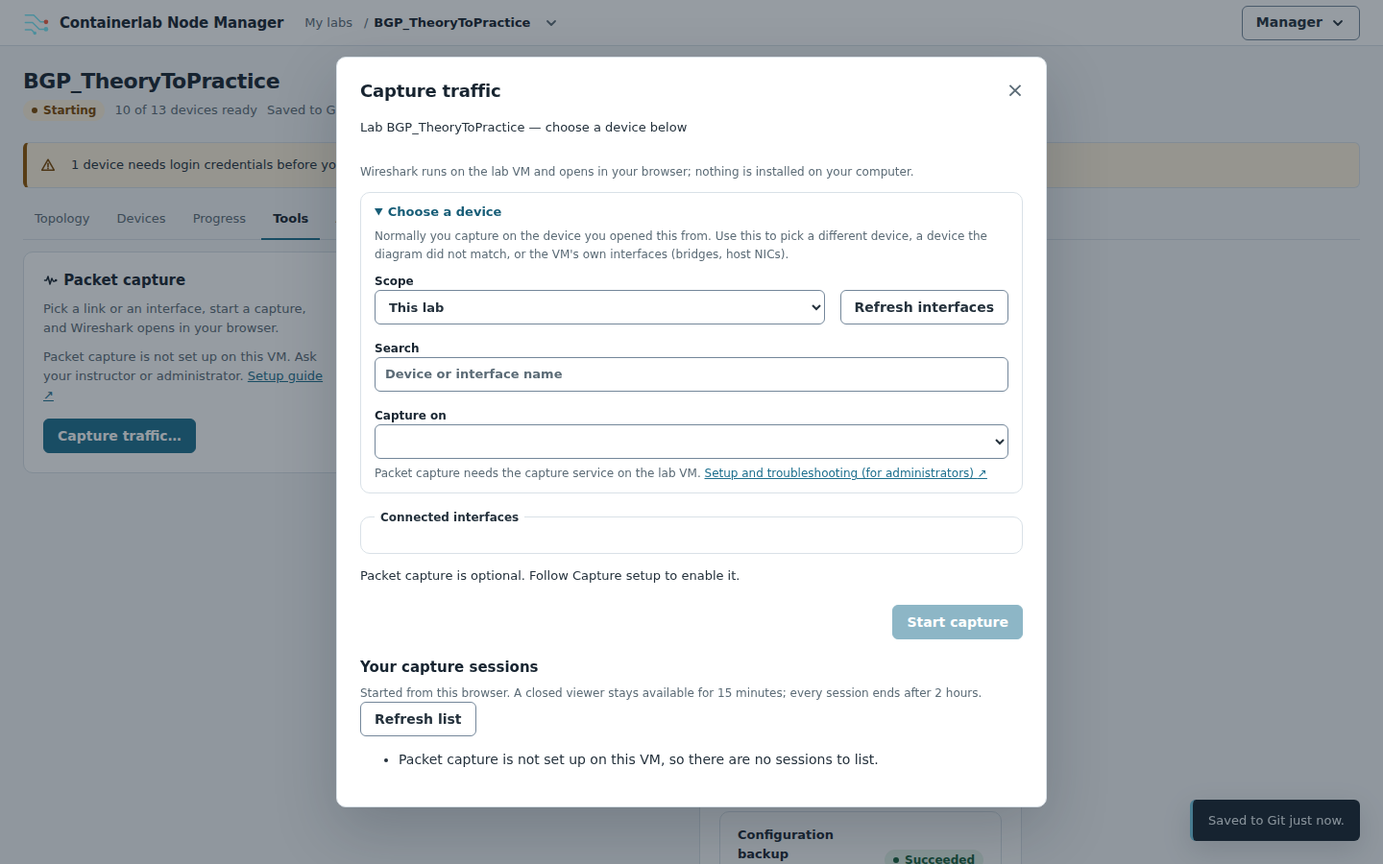
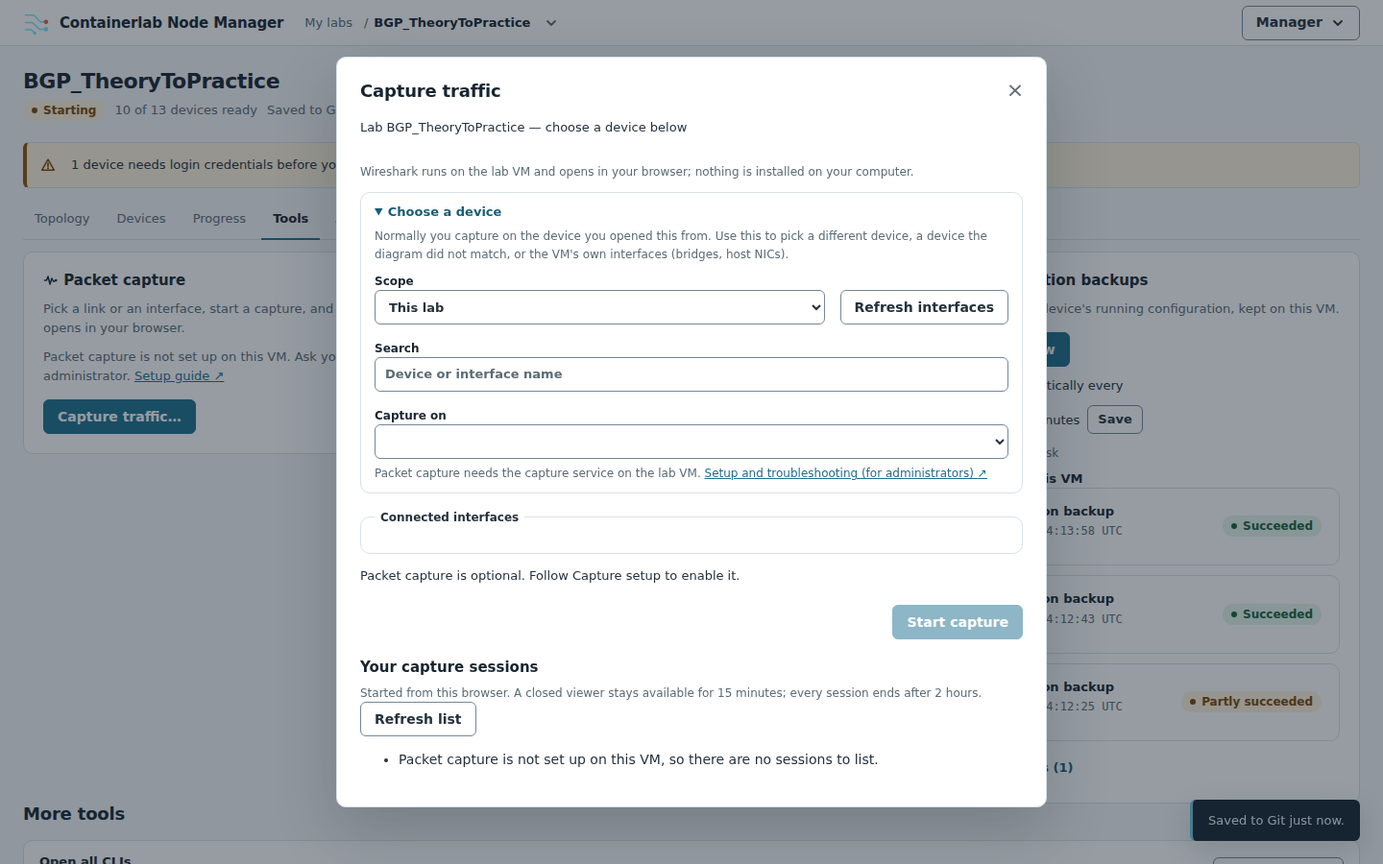
Release 1.29.1: student UI screenshot pass, eight layout fixes
Screenshot sweep of every student page on the live dev VM at 1440x900, 1280x720,
1920x1080 and 800 px; fixes in style.css, app.js, operations.js and git-progress.js:
the topology rail badge overlapping the state pill, the expanded map filling only a
corner of its overlay, the map More menu drawn as toolbar buttons, the Tools cards
(empty fourth column, schedule form and backup summary wrapping), the capture dialog's
empty-state sentence, the Open all CLIs arrow, the Progress error card, and the
Advanced key/value spacing. Tour images regenerated from the fixture manager; release
markers moved with set-release.py; CHANGELOG, VALIDATION and agent-instructions
sections added.

diff --git a/clab-backup-ui/app/static/style.css b/clab-backup-ui/app/static/style.css
@@ -937,6 +937,7 @@ footer {
 }
 .blank-state h2 { font-size: 18px; margin-bottom: 6px; }
 .blank-state p { font-size: 13px; margin: 0; }
+.blank-state .actions { justify-content: center; padding: 14px 0 0; }
 
 /* legacy landing panel (section#empty) */
 .empty-panel { position: relative; overflow: hidden; padding: 56px 24px; }
@@ -1127,7 +1128,7 @@ footer {
 .card > p:first-of-type, .panel > p:first-of-type { margin-top: 0; }
 .card .caption, .panel .caption { margin-top: 4px; }
 
-.tool-grid { display: grid; grid-template-columns: repeat(auto-fill, minmax(320px, 1fr)); gap: 16px; align-items: start; }
+.tool-grid { display: grid; grid-template-columns: repeat(auto-fit, minmax(400px, 1fr)); gap: 16px; align-items: start; }
 .tool-card {
   display: flex;
   flex-direction: column;
@@ -1185,6 +1186,7 @@ dl.kv, .kv {
 .kv dt { color: var(--muted); }
 .kv dd { margin: 0; overflow-wrap: anywhere; }
 .kv .mono, .kv code { font-size: 12px; }
+.panel > .kv { margin-top: 12px; }
 
 .health-grid {
   display: grid;
@@ -1268,7 +1270,8 @@ fieldset { min-width: 0; }
 
 .schedule-form { display: flex; flex-wrap: wrap; align-items: center; gap: 8px; font-size: 13px; }
 .schedule-form input { width: 80px; }
-.schedule-form small { font-size: 12px; color: var(--muted); }
+.schedule-form label { flex-basis: 100%; }
+.schedule-form small { flex-basis: 100%; font-size: 12px; color: var(--muted); }
 
 .log-filters { display: flex; gap: 12px; flex-wrap: wrap; align-items: end; margin: 12px 0; }
 .log-filters label { display: grid; gap: 6px; font-size: 12px; font-weight: 600; color: var(--ink); }
@@ -1356,9 +1359,15 @@ tr:last-child td { border-bottom: 0; }
 
 .device-rail { display: flex; flex-direction: column; gap: 6px; min-width: 0; }
 .device-rail h2, .device-rail h3, .device-rail .card-title { font-size: 13px; color: var(--muted); font-weight: 600; margin: 0 0 4px; }
-.device-rail .device-row { grid-template-columns: minmax(96px, 1fr) minmax(0, 1.4fr); padding: 10px 12px; gap: 8px 12px; }
-.device-rail .device-row .node-name { overflow-wrap: anywhere; word-break: normal; }
-.device-rail .device-row .node-actions { grid-column: 1 / -1; justify-content: flex-start; min-width: 0; }
+/* rail cards are narrow: the name and the state pill share the first line and the network OS badge gets a
+   line of its own, so a long platform label (Junos (vJunos-switch)) never runs under the pill */
+.device-rail .device-row { grid-template-columns: minmax(0, 1fr) auto; grid-template-areas: "name state" "platform platform" "reason reason" "actions actions"; padding: 10px 12px; gap: 0 10px; }
+.device-rail .device-row > div:not(.node-actions) { display: contents; }
+.device-rail .device-row .node-name { grid-area: name; justify-self: start; overflow-wrap: anywhere; word-break: normal; }
+.device-rail .device-row .pill { grid-area: state; justify-self: end; margin: 0; }
+.device-rail .device-row .platform { grid-area: platform; justify-self: start; margin: 4px 0 0; max-width: 100%; white-space: normal; overflow-wrap: anywhere; }
+.device-rail .device-row .row-reason { grid-area: reason; margin: 4px 0 0; }
+.device-rail .device-row .node-actions { grid-area: actions; justify-content: flex-start; min-width: 0; margin-top: 10px; }
 .device-rail .empty-state { padding: 24px 16px; }
 .device-rail .caption { margin-top: 8px; }
 
@@ -1408,6 +1417,8 @@ tr:last-child td { border-bottom: 0; }
 .job-title { flex: 1; min-width: 0; }
 .job-title strong { font-size: 13px; display: block; color: var(--ink); }
 .job-title small { display: block; font: 12px var(--mono); color: var(--muted); margin-top: 4px; }
+/* the date and the device count never break inside; a narrow card wraps at the separator */
+.job-title small > span { white-space: nowrap; }
 .job-body { border-top: 1px solid var(--line); padding: 16px 18px; }
 .job-body > p { font-size: 13px; color: var(--muted); margin: 0 0 12px; }
 .job-result {
@@ -1650,7 +1661,7 @@ dialog.drawer, dialog.node-details {
 
 .map-tools { display: flex; align-items: center; gap: 6px; flex-wrap: wrap; }
 .map-tools span { font-size: 12px; color: var(--muted); }
-.map-tools button, .map-tools .button, .map-tools .menu > summary {
+.map-tools button:not(.menu-list *), .map-tools .button:not(.menu-list *), .map-tools .menu > summary {
   min-height: 30px;
   padding: 4px 10px;
   border: 1px solid var(--line-strong);
@@ -1662,7 +1673,7 @@ dialog.drawer, dialog.node-details {
   white-space: nowrap;
   box-shadow: 0 1px 2px rgba(23, 36, 48, .06);
 }
-.map-tools button:hover:not(:disabled), .map-tools .button:hover:not(:disabled), .map-tools .menu > summary:hover { background: var(--surface-2); }
+.map-tools button:not(.menu-list *):hover:not(:disabled), .map-tools .button:not(.menu-list *):hover:not(:disabled), .map-tools .menu > summary:hover { background: var(--surface-2); }
 .map-tools .button.primary { background: var(--accent); border-color: var(--accent); color: #fff; }
 .map-tools .button.primary:hover:not(:disabled) { background: var(--accent-strong); }
 .map-tools #map-edit { margin-left: auto; }
@@ -1740,9 +1751,11 @@ path.capture-hit { stroke: transparent; stroke-width: 16; pointer-events: stroke
   box-shadow: 0 0 0 100vmax var(--backdrop), var(--shadow-dialog);
   overflow: hidden;
 }
-.map-expanded .topology-layout, .map-expanded .topology-body { display: flex; flex-direction: column; flex: 1; min-height: 0; }
+/* the layout grid and its map column become flex columns; align-items must stretch (the grid rule says
+   start) or the stage shrinks to the width of its toolbar */
+.map-expanded .topology-layout, .map-expanded .topology-layout > div:first-child { display: flex; flex-direction: column; flex: 1; min-height: 0; min-width: 0; align-items: stretch; }
 .map-expanded .topology-stage { flex: 1; height: auto; min-height: 0; }
-.map-expanded #topology-map { flex: 1; min-height: 100px; height: auto; }
+.map-expanded #topology-map { min-height: 100px; height: 100%; }
 .map-expanded .device-rail { display: none; }
 .map-expanded .section-heading { margin-bottom: 8px; }
 
@@ -2162,6 +2175,7 @@ details.git-saved-job > :last-child { padding-bottom: 12px; }
 .capture-controls { display: flex; gap: 16px; align-items: end; flex-wrap: wrap; }
 .capture-controls label { flex: 1; margin: 0; }
 .capture-interfaces { display: grid; grid-template-columns: repeat(auto-fill, minmax(145px, 1fr)); gap: 8px; max-height: 240px; overflow: auto; }
+.capture-interfaces > p { grid-column: 1 / -1; margin: 0; font-size: 13px; color: var(--muted); }
 .capture-interface { display: flex; align-items: center; gap: 8px; overflow-wrap: anywhere; margin: 0; min-height: 34px; font-size: 13px; font-weight: 400; }
 .capture-interface input { width: auto; }
 .capture-more, .capture-advanced { margin-top: 12px; border: 1px solid var(--line); border-radius: var(--radius-lg); padding: 10px 14px; }

diff --git a/clab-backup-ui/app/static/capture-setup.html b/clab-backup-ui/app/static/capture-setup.html
@@ -1,5 +1,5 @@
 <!doctype html>
-<html lang="en"><head><meta charset="utf-8"><meta name="viewport" content="width=device-width,initial-scale=1"><title>Packet capture setup · Containerlab Node Manager</title><link rel="icon" href="/static/fabric-mark.svg" type="image/svg+xml"><link rel="stylesheet" href="/static/style.css?v=1.29.0"></head>
+<html lang="en"><head><meta charset="utf-8"><meta name="viewport" content="width=device-width,initial-scale=1"><title>Packet capture setup · Containerlab Node Manager</title><link rel="icon" href="/static/fabric-mark.svg" type="image/svg+xml"><link rel="stylesheet" href="/static/style.css?v=1.29.1"></head>
 <body><main class="capture-guide"><a href="/">← Back to My labs</a><h1>Packet capture setup and troubleshooting</h1><p>For administrators. Wireshark runs on the lab VM and opens in the student's browser; nothing is installed on the workstation — no plugin, VNC client or capture-port tunnel.</p><h2>1. The VM services</h2><p>The browser capture stack is part of every installation: <code>bash "$HOME/projects/clab-manager/deploy/install.sh"</code> installs it and every later install or upgrade refreshes it. To reinstall or repair only this stack, run from any directory on the VM:</p><pre><code>sudo bash "$HOME/projects/clab-manager/deploy/setup-capture.sh"</code></pre><p>It pulls the pinned Wireshark image, builds the session service, starts Edgeshark, updates the capture settings while preserving unrelated configuration, and recreates the manager so it loads them. Download active browser captures before upgrading: restarting the service removes temporary sessions.</p><p>The bundled stack needs free localhost ports 5001 and 5801. Setup does not remove another tool's Edgeshark installation; resolve conflicts first. Keep the manager on a trusted management network or use an authenticated HTTPS reverse proxy with WebSocket support.</p><h2>2. Capture in the browser</h2><p>Students open <strong>Capture traffic…</strong> from a device, a link on the map or Tools › Packet capture. The dialog lists the device's connected interfaces first; <strong>Start capture → Open Wireshark ↗</strong> opens the viewer in a new tab. On a link either end can be chosen. <strong>Everything on the VM</strong> under Advanced includes host NICs, bridges and other namespaces.</p><h2>3. Save, download and end</h2><p>Stop capturing in Wireshark, then use <strong>File → Save As</strong> under <strong>/pcaps</strong> with the full file name ending in .pcapng. <strong>Download saved captures</strong> hands over a .tar archive with the PCAPNG files. <strong>End session</strong> deletes the container and its files.</p><p>Four sessions can run at once. A closed viewer stays available for 15 minutes under <strong>Your capture sessions</strong>. Every session ends after two hours. The capture folder holds 256 MiB. Save and download before expiry; capture files never enter backups or Git history.</p><h2>Troubleshooting</h2><ul><li><strong>"Packet capture is not set up on this VM":</strong> run setup, recreate the manager and check the service logs below.</li><li><strong>Disconnected from Wireshark:</strong> Reconnect viewer joins the existing session; the capture may still be running.</li><li><strong>Session not found:</strong> it may have ended, expired or belong to another browser profile.</li><li><strong>No matching interface:</strong> choose Everything on the VM and pick the Linux interface name; device port names (ge-0/0/0) often map to eth1, eth2…</li><li><strong>Download reports no saved captures:</strong> stop the capture in Wireshark, use File → Save As under /pcaps, then download again; the archive only holds that folder.</li><li><strong>No packets:</strong> check the endpoint and generate traffic. DOWN interfaces, stopped containers and traffic hidden inside nested VMs remain outside exposed Linux interfaces.</li></ul><pre><code>sudo docker compose --env-file "$HOME/projects/clab-manager/clab-backup-ui/.env" -f "$HOME/projects/clab-manager/deploy/compose.capture.yml" ps
 sudo docker compose --env-file "$HOME/projects/clab-manager/clab-backup-ui/.env" -f "$HOME/projects/clab-manager/deploy/compose.capture.yml" logs --tail=80 sessions
 bash "$HOME/projects/clab-manager/deploy/check-install.sh"</code></pre><p>See <strong>docs/CAPTURE.md</strong> for architecture, manual configuration, removal and validation details. Replace <code>$HOME/projects/clab-manager</code> if you cloned the source elsewhere.</p></main></body></html>

diff --git a/clab-backup-ui/app/static/operations.js b/clab-backup-ui/app/static/operations.js
@@ -40,7 +40,7 @@ async function openLabOperations(id=activeId){
  const cleanup=['deploy','redeploy'].filter(a=>opCaps?.actions[a]?.cleanup).map(a=>opCommand(a,(a==='deploy'?'Deploy lab':'Redeploy lab')+' and clear the lab folder…',{cleanup:true})).join('');
  opDialog(dialog.id,lab.name,`<p class="op-path">${path?'Topology file on the VM: '+esc(path):"This lab has no topology file on the VM yet. Import the lab's files (Advanced › Deployment details) to enable these actions."}</p>${problem?`<p class="op-notice">Couldn't check the VM's commands, so every action is shown; some may fail. Details: ${esc(problem)}</p>`:''}
  <div class="op-sections"><section><h3>Deployment</h3><div class="op-grid">${opCommand('deploy','Deploy lab')}${['redeploy','start','stop','restart','apply','inspect','save'].map(a=>opCommand(a)).join('')}</div><p class="form-help">Deploy creates and starts the devices; Start, Stop and Restart act on the running devices. "Save device configurations" uses containerlab's own save (supported device types only); your Save progress snapshots are separate.</p></section>
- <section><h3>Lab tools</h3><div class="op-grid"><button class="button secondary" data-local="ssh">Open all CLIs <span aria-hidden="true">↗</span></button><button class="button secondary" data-local="interactive">Edit map</button><button class="button secondary" data-local="telemetry">Telemetry settings…</button><button class="button secondary" data-local="history">Operation history…</button><button class="button secondary" data-local="favorite">${lab.favorite?'Remove from favourites':'Add to favourites'}</button></div></section>
+ <section><h3>Lab tools</h3><div class="op-grid"><button class="button secondary" data-local="ssh"><span>Open all CLIs <span aria-hidden="true">↗</span></span></button><button class="button secondary" data-local="interactive">Edit map</button><button class="button secondary" data-local="telemetry">Telemetry settings…</button><button class="button secondary" data-local="history">Operation history…</button><button class="button secondary" data-local="favorite">${lab.favorite?'Remove from favourites':'Add to favourites'}</button></div></section>
  <section class="op-danger"><h3>Danger</h3><div class="op-grid">${opCommand('destroy','Destroy lab…',opDestroyOptions())}${cleanup}${opCommand('delete','Delete the topology file from the VM…')}</div><p class="form-help">Destroy removes the running devices and, when the installed containerlab supports cleanup, the lab's generated folder on the VM. Redeploy keeps that folder unless you choose the "clear the lab folder" variant.</p></section></div>`);
  dialog.querySelectorAll('[data-op-action]').forEach(b=>b.onclick=()=>{
   const action=b.dataset.opAction,options=JSON.parse(b.dataset.opOptions);

diff --git a/clab-backup-ui/app/static/index.html b/clab-backup-ui/app/static/index.html
@@ -1,6 +1,6 @@
 <!doctype html>
 <html lang="en">
-<head><meta charset="utf-8"><meta name="viewport" content="width=device-width,initial-scale=1"><title>Containerlab Node Manager</title><link rel="icon" type="image/svg+xml" href="/static/fabric-mark.svg"><link rel="stylesheet" href="/static/style.css?v=1.29.0"><script src="/static/status.js?v=1.29.0" defer></script><script src="/static/shell.js?v=1.29.0" defer></script><script src="/static/app.js?v=1.29.0" defer></script><script src="/static/topology-render.js?v=1.29.0" defer></script><script src="/static/topology.js?v=1.29.0" defer></script><script src="/static/home.js?v=1.29.0" defer></script><script src="/static/management.js?v=1.29.0" defer></script><script src="/static/operations.js?v=1.29.0" defer></script><script src="/static/diagram-editor.js?v=1.29.0" defer></script><script src="/static/git-progress.js?v=1.29.0" defer></script><script src="/static/git-places.js?v=1.29.0" defer></script><script src="/static/restore.js?v=1.29.0" defer></script><script src="/static/capture.js?v=1.29.0" defer></script></head>
+<head><meta charset="utf-8"><meta name="viewport" content="width=device-width,initial-scale=1"><title>Containerlab Node Manager</title><link rel="icon" type="image/svg+xml" href="/static/fabric-mark.svg"><link rel="stylesheet" href="/static/style.css?v=1.29.1"><script src="/static/status.js?v=1.29.1" defer></script><script src="/static/shell.js?v=1.29.1" defer></script><script src="/static/app.js?v=1.29.1" defer></script><script src="/static/topology-render.js?v=1.29.1" defer></script><script src="/static/topology.js?v=1.29.1" defer></script><script src="/static/home.js?v=1.29.1" defer></script><script src="/static/management.js?v=1.29.1" defer></script><script src="/static/operations.js?v=1.29.1" defer></script><script src="/static/diagram-editor.js?v=1.29.1" defer></script><script src="/static/git-progress.js?v=1.29.1" defer></script><script src="/static/git-places.js?v=1.29.1" defer></script><script src="/static/restore.js?v=1.29.1" defer></script><script src="/static/capture.js?v=1.29.1" defer></script></head>
 <body>
 
 <svg hidden aria-hidden="true" focusable="false" xmlns="http://www.w3.org/2000/svg">

diff --git a/clab-backup-ui/app/static/workspace.html b/clab-backup-ui/app/static/workspace.html
@@ -1,3 +1,3 @@
 <!doctype html>
-<html lang="en"><head><meta charset="utf-8"><meta name="viewport" content="width=device-width,initial-scale=1"><title>Deploy a new lab · Containerlab Node Manager</title><link rel="icon" href="/static/fabric-mark.svg" type="image/svg+xml"><link rel="stylesheet" href="/static/style.css?v=1.29.0"><script src="/static/status.js?v=1.29.0" defer></script><script src="/static/workspace.js?v=1.29.0" defer></script><script src="/static/topology-render.js?v=1.29.0" defer></script><script src="/static/operations.js?v=1.29.0" defer></script><script src="/static/diagram-editor.js?v=1.29.0" defer></script></head>
+<html lang="en"><head><meta charset="utf-8"><meta name="viewport" content="width=device-width,initial-scale=1"><title>Deploy a new lab · Containerlab Node Manager</title><link rel="icon" href="/static/fabric-mark.svg" type="image/svg+xml"><link rel="stylesheet" href="/static/style.css?v=1.29.1"><script src="/static/status.js?v=1.29.1" defer></script><script src="/static/workspace.js?v=1.29.1" defer></script><script src="/static/topology-render.js?v=1.29.1" defer></script><script src="/static/operations.js?v=1.29.1" defer></script><script src="/static/diagram-editor.js?v=1.29.1" defer></script></head>
 <body class="standalone-workspace"><main class="content"><a class="workspace-back" href="/">← Back to My labs</a><h1 id="workspace-title">Deploy a new lab</h1><p id="workspace-message" role="status"></p><div class="workspace-choices" id="workspace-choices"><button class="workspace-choice workspace-choice-primary" id="workspace-open"><strong>Lab topologies on the VM</strong><span>Browse the topology files on the VM, pick a lab and start it.</span><span aria-hidden="true">Browse topologies →</span></button><button class="workspace-choice" id="workspace-history"><strong>Operation history</strong><span>See what earlier lab operations did and whether they succeeded.</span></button></div><section id="workspace-content"></section><p class="workspace-links"><a href="/static/debug.html">Diagnostics</a> · If folders on the VM will not open, run the checks there.</p></main><div id="toast" role="status" hidden></div></body></html>

diff --git a/clab-backup-ui/app/static/grafana.html b/clab-backup-ui/app/static/grafana.html
@@ -1,3 +1,3 @@
 <!doctype html>
-<html lang="en"><head><meta charset="utf-8"><meta name="viewport" content="width=device-width,initial-scale=1"><title>Network dashboard · Containerlab Node Manager</title><link rel="icon" href="/static/fabric-mark.svg" type="image/svg+xml"><link rel="stylesheet" href="/static/style.css?v=1.29.0"></head>
-<body><main class="capture-guide"><a href="/">← Back to My labs</a><h1 id="grafana-title">Network dashboard</h1><p id="grafana-headline" hidden></p><p id="grafana-status" role="status" aria-live="polite">Checking the dashboard on the VM…</p><p class="form-help">The dashboard runs on the lab VM only while someone is viewing it. The manager starts it when you open it and stops it again after a while with nobody watching. It shows about the last fifteen minutes of data.</p><div class="actions"><a class="button primary" id="grafana-open" hidden>Open dashboard <span aria-hidden="true">↗</span></a><button class="button secondary" id="grafana-retry" hidden>Try again</button></div></main><script src="/static/grafana.js?v=1.29.0"></script></body></html>
+<html lang="en"><head><meta charset="utf-8"><meta name="viewport" content="width=device-width,initial-scale=1"><title>Network dashboard · Containerlab Node Manager</title><link rel="icon" href="/static/fabric-mark.svg" type="image/svg+xml"><link rel="stylesheet" href="/static/style.css?v=1.29.1"></head>
+<body><main class="capture-guide"><a href="/">← Back to My labs</a><h1 id="grafana-title">Network dashboard</h1><p id="grafana-headline" hidden></p><p id="grafana-status" role="status" aria-live="polite">Checking the dashboard on the VM…</p><p class="form-help">The dashboard runs on the lab VM only while someone is viewing it. The manager starts it when you open it and stops it again after a while with nobody watching. It shows about the last fifteen minutes of data.</p><div class="actions"><a class="button primary" id="grafana-open" hidden>Open dashboard <span aria-hidden="true">↗</span></a><button class="button secondary" id="grafana-retry" hidden>Try again</button></div></main><script src="/static/grafana.js?v=1.29.1"></script></body></html>

diff --git a/clab-backup-ui/app/static/terminal.html b/clab-backup-ui/app/static/terminal.html
@@ -1,5 +1,5 @@
 <!doctype html>
 <html lang="en">
-<head><meta charset="utf-8"><meta name="viewport" content="width=device-width,initial-scale=1"><title>Containerlab Node Manager · SSH</title><link rel="icon" type="image/svg+xml" href="/static/fabric-mark.svg"><link rel="stylesheet" href="/static/vendor/xterm.css"><link rel="stylesheet" href="/static/terminal.css?v=1.29.0"><script src="/static/vendor/xterm.js" defer></script><script src="/static/vendor/addon-fit.js" defer></script><script src="/static/terminal.js?v=1.29.0" defer></script></head>
+<head><meta charset="utf-8"><meta name="viewport" content="width=device-width,initial-scale=1"><title>Containerlab Node Manager · SSH</title><link rel="icon" type="image/svg+xml" href="/static/fabric-mark.svg"><link rel="stylesheet" href="/static/vendor/xterm.css"><link rel="stylesheet" href="/static/terminal.css?v=1.29.1"><script src="/static/vendor/xterm.js" defer></script><script src="/static/vendor/addon-fit.js" defer></script><script src="/static/terminal.js?v=1.29.1" defer></script></head>
 <body><header><div class="terminal-identity"><img src="/static/fabric-mark.svg" alt=""><div><span class="brand-label">SSH session</span><strong id="title">Device CLI</strong><span id="endpoint"></span><a id="back" class="terminal-back" href="/" hidden>← Lab</a></div></div><div class="session-controls"><span id="status" role="status">Disconnected</span><button id="connect">Reconnect</button><button id="disconnect">Disconnect</button></div></header><div class="notice"><span id="notice-text">Logged in with your saved credentials. The session closes after 15 minutes without activity.</span> <details class="terminal-details"><summary>Details</summary><span>Commands run with your saved account’s permissions. Host keys follow the manager’s trusted-lab policy. A session ends after 4 hours at most.</span></details></div><div id="terminal" aria-label="Interactive SSH terminal"></div></body>
 </html>

diff --git a/clab-backup-ui/app/static/capture-session.html b/clab-backup-ui/app/static/capture-session.html
@@ -1,3 +1,3 @@
 <!doctype html>
-<html lang="en"><head><meta charset="utf-8"><meta name="viewport" content="width=device-width,initial-scale=1"><title>Wireshark · Containerlab Node Manager</title><link rel="icon" href="/static/fabric-mark.svg" type="image/svg+xml"><link rel="stylesheet" href="/static/style.css?v=1.29.0"><script type="module" src="/static/capture-session.js?v=1.29.0"></script></head>
+<html lang="en"><head><meta charset="utf-8"><meta name="viewport" content="width=device-width,initial-scale=1"><title>Wireshark · Containerlab Node Manager</title><link rel="icon" href="/static/fabric-mark.svg" type="image/svg+xml"><link rel="stylesheet" href="/static/style.css?v=1.29.1"><script type="module" src="/static/capture-session.js?v=1.29.1"></script></head>
 <body class="capture-viewer"><header class="capture-viewer-toolbar"><a href="/" target="_blank" rel="noopener">Lab manager ↗</a><strong id="capture-name">Wireshark</strong><span id="viewer-status" role="status" aria-live="polite">Connecting to the VM…</span><details class="capture-viewer-help"><summary>How to save a capture</summary><p>In Wireshark, stop the capture, choose <strong>File → Save As</strong>, pick the <strong>/pcaps</strong> folder and type the full file name ending in <strong>.pcapng</strong> (Wireshark on the VM does not add it for you). Then click <strong>Download saved captures</strong>.</p><p>Ending the session deletes its files. If you close this tab the session stays available for 15 minutes; every session ends after 2 hours.</p></details><a id="capture-download" class="button secondary" hidden>Download saved captures</a><button id="capture-reconnect" type="button" class="button secondary">Reconnect viewer</button><button id="capture-end" type="button" class="button danger" disabled>End session</button></header><div id="capture-screen" aria-label="Wireshark"></div></body></html>

diff --git a/clab-backup-ui/app/static/app.js b/clab-backup-ui/app/static/app.js
@@ -82,7 +82,7 @@ function renderTechnical(lab){const set=(id,value)=>{if($(id))$(id).textContent=
 function render(){
  const lab=current(),home=!lab,loaded=!!state.loaded;
  setMarkup($('labs'),labsMarkup());
- const version=state.version||'1.29.0';$('app-version').textContent='v'+version;
+ const version=state.version||'1.29.1';$('app-version').textContent='v'+version;
  if($('supported-release'))$('supported-release').textContent='Works with Junos, IOS-XR and Arista EOS';
  renderWorkerState();
  $('empty').hidden=!home||!loaded||state.labs.length>0;$('lab-content').hidden=!lab;
@@ -210,7 +210,7 @@ function jobMarkup(j,opened){
  const finished=!['queued','running'].includes(j.status);
  const available=j.operation==='backup'&&finished&&j.nodes.some(n=>n.status==='succeeded'&&n.download_name);
  return `<details class="job" data-job="${esc(j.id)}" ${opened.has(j.id)?'open':''}>
- <summary><div class="job-title"><strong>${j.operation==='test'?'Login check'+(j.source==='automatic'?' (automatic)':''):'Configuration backup'}</strong><small>${esc(utcDisplay(j.started||j.created))} · ${j.nodes.length} devices</small></div>${badge(j.status)}</summary>
+ <summary><div class="job-title"><strong>${j.operation==='test'?'Login check'+(j.source==='automatic'?' (automatic)':''):'Configuration backup'}</strong><small><span>${esc(utcDisplay(j.started||j.created))}</span> <span>· ${j.nodes.length} devices</span></small></div>${badge(j.status)}</summary>
  <div class="job-body"><p>${esc(j.message)}</p><button class="button secondary" data-logs="${esc(j.id)}">View action logs</button>
  ${j.nodes.map((n,index)=>`<div class="job-result"><strong>${esc(n.short_name||n.name)}</strong>${badge(n.status)}
  ${n.message?`<p>${esc(n.message)}</p>`:''}

diff --git a/clab-backup-ui/app/static/git-progress.js b/clab-backup-ui/app/static/git-progress.js
@@ -128,7 +128,9 @@ async function gitShowRepository(force=false){
   gitRenderRepository(id,context,catalog,{history,tree});renderGitProgress();
  }catch(error){
   if(request!==gitViewRequest)return;
-  container.innerHTML=`<div class="blank-state"><h3>Saved progress could not be loaded.</h3><p class="form-help">Check the VM connection (Manager ▾ › VM connection…), then try again.</p><div class="actions"><button type="button" class="button secondary" data-git-repo-action="refresh">Try again</button></div><details><summary>Details</summary><p class="form-error" role="alert">${esc(error.message)}</p></details></div>`;
+  // api() rejects with the manager's sentence (a 409 says what to do); a network failure is a TypeError
+  const reason=error instanceof TypeError?'':(error&&error.message||'');
+  container.innerHTML=`<div class="blank-state"><h3>Saved progress could not be loaded.</h3><p class="form-help">${esc(reason||'Check the VM connection (Manager ▾ › VM connection…), then try again.')}</p><div class="actions"><button type="button" class="button secondary" data-git-repo-action="refresh">Try again</button></div>${reason?'':`<details><summary>Details</summary><p class="form-error" role="alert">${esc(error&&error.message||'')}</p></details>`}</div>`;
   for(const button of container.querySelectorAll('[data-git-repo-action]'))button.onclick=()=>gitRunAction(button.dataset.gitRepoAction,id);
  }
 }

diff --git a/clab-backup-ui/app/static/debug.html b/clab-backup-ui/app/static/debug.html
@@ -1,5 +1,5 @@
 <!doctype html>
-<html lang="en"><head><meta charset="utf-8"><meta name="viewport" content="width=device-width,initial-scale=1"><title>Diagnostics · Containerlab Node Manager</title><link rel="icon" type="image/svg+xml" href="/static/fabric-mark.svg"><link rel="stylesheet" href="/static/style.css?v=1.29.0"><script src="/static/debug.js?v=1.29.0" defer></script></head>
+<html lang="en"><head><meta charset="utf-8"><meta name="viewport" content="width=device-width,initial-scale=1"><title>Diagnostics · Containerlab Node Manager</title><link rel="icon" type="image/svg+xml" href="/static/fabric-mark.svg"><link rel="stylesheet" href="/static/style.css?v=1.29.1"><script src="/static/debug.js?v=1.29.1" defer></script></head>
 <body class="standalone-workspace"><main class="content debug-page">
 <a class="workspace-back" href="/">← Back to My labs</a><p class="eyebrow">Manager</p><div class="section-heading"><div><h1>Diagnostics</h1><p>Check the manager and find out why folders on the VM fail to open.</p></div><div class="actions"><button class="button secondary" id="debug-refresh">Refresh</button><button class="button secondary" id="debug-download" disabled>Download report</button></div></div>
 <p class="caption">The report is a JSON file you can send to your instructor or administrator. It contains no passwords, VM paths or file contents.</p>

diff --git a/clab-backup-ui/app/static/vm-connection.html b/clab-backup-ui/app/static/vm-connection.html
@@ -1,4 +1,4 @@
-<!doctype html><html lang="en"><head><meta charset="utf-8"><meta name="viewport" content="width=device-width,initial-scale=1"><title>VM connection guide</title><link rel="stylesheet" href="/static/style.css?v=1.29.0"></head><body><main class="vm-guide"><a href="/">← Containerlab Node Manager</a><h1>VM connection — password setup and recovery</h1>
+<!doctype html><html lang="en"><head><meta charset="utf-8"><meta name="viewport" content="width=device-width,initial-scale=1"><title>VM connection guide</title><link rel="stylesheet" href="/static/style.css?v=1.29.1"></head><body><main class="vm-guide"><a href="/">← Containerlab Node Manager</a><h1>VM connection — password setup and recovery</h1>
 <p>Create the <code>clab-discovery</code> password <strong>on the VM during host setup, before launching
 the manager</strong>. The image build contains no user password. Each VM has its own
 user-created password, retained across reboots and manager upgrades.</p>
